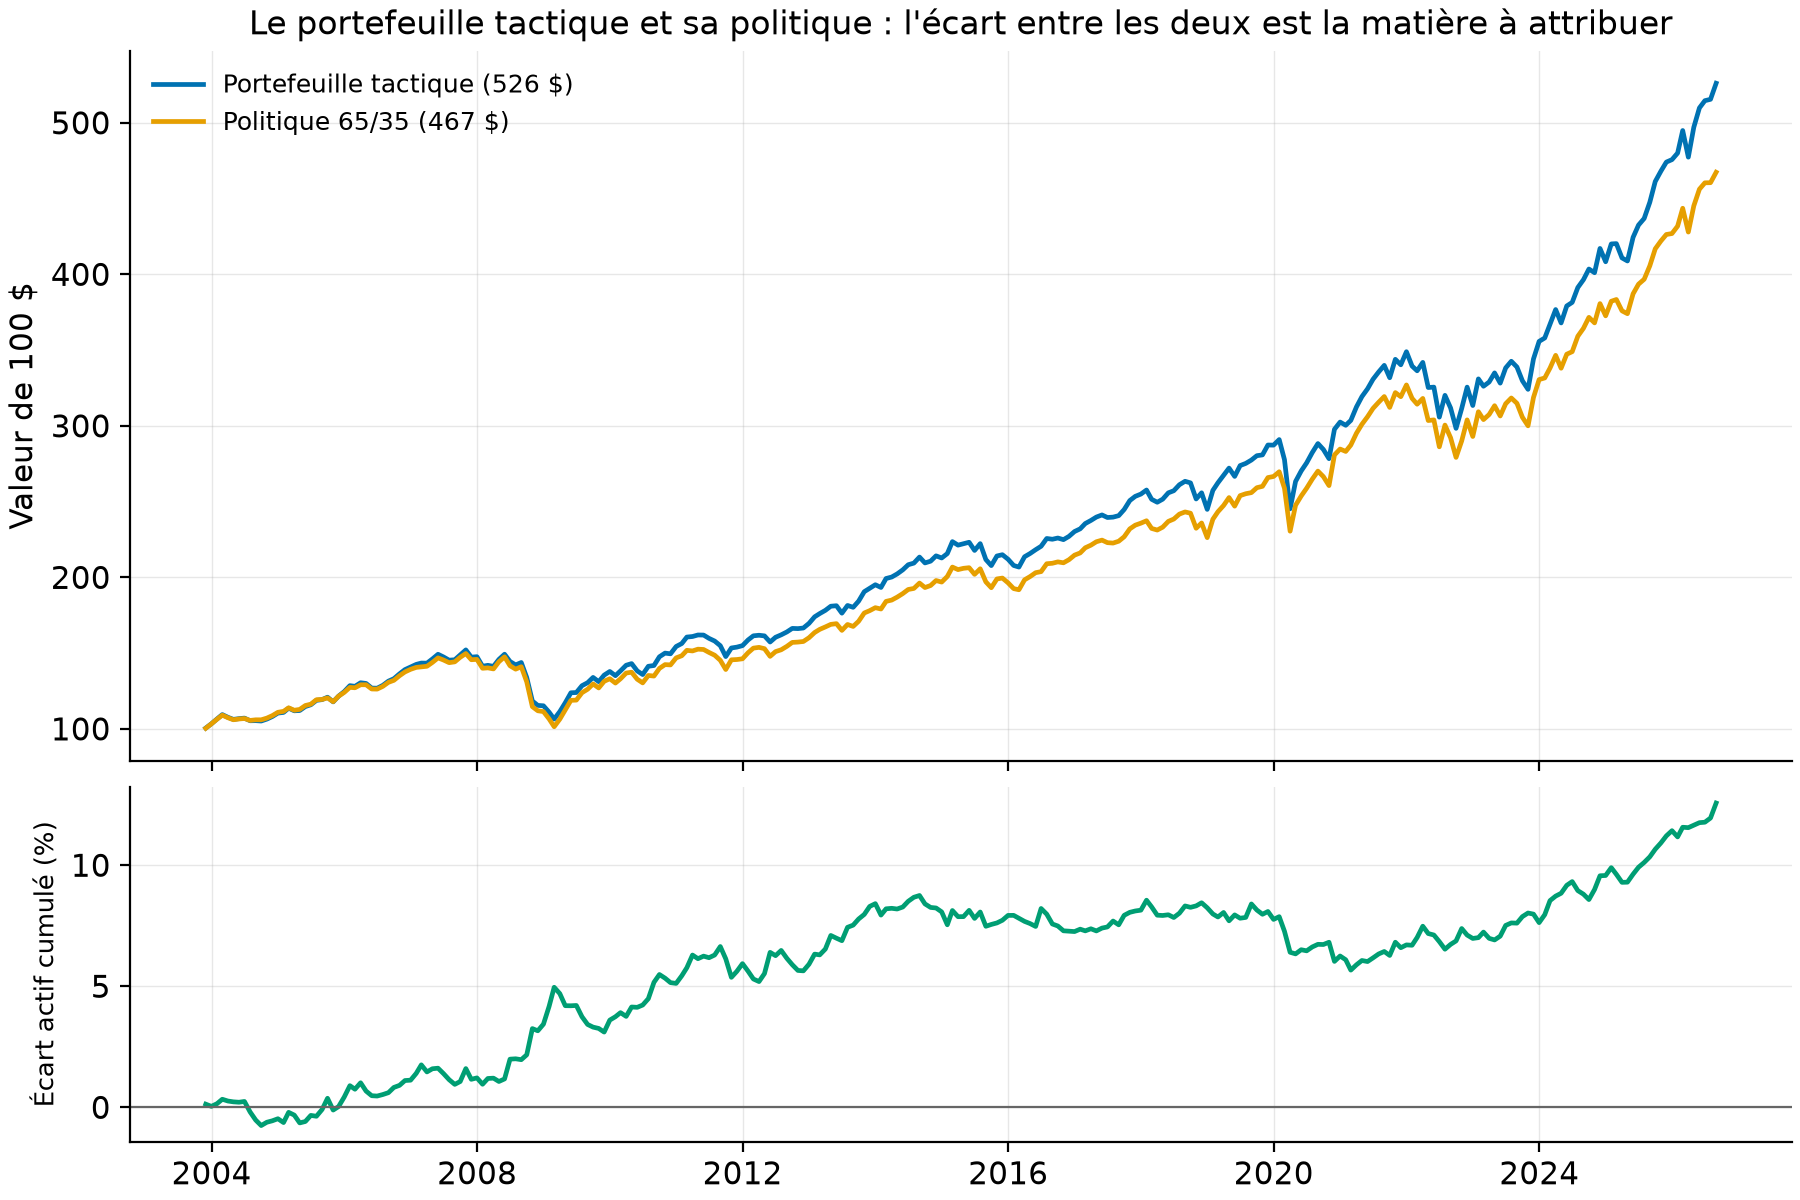
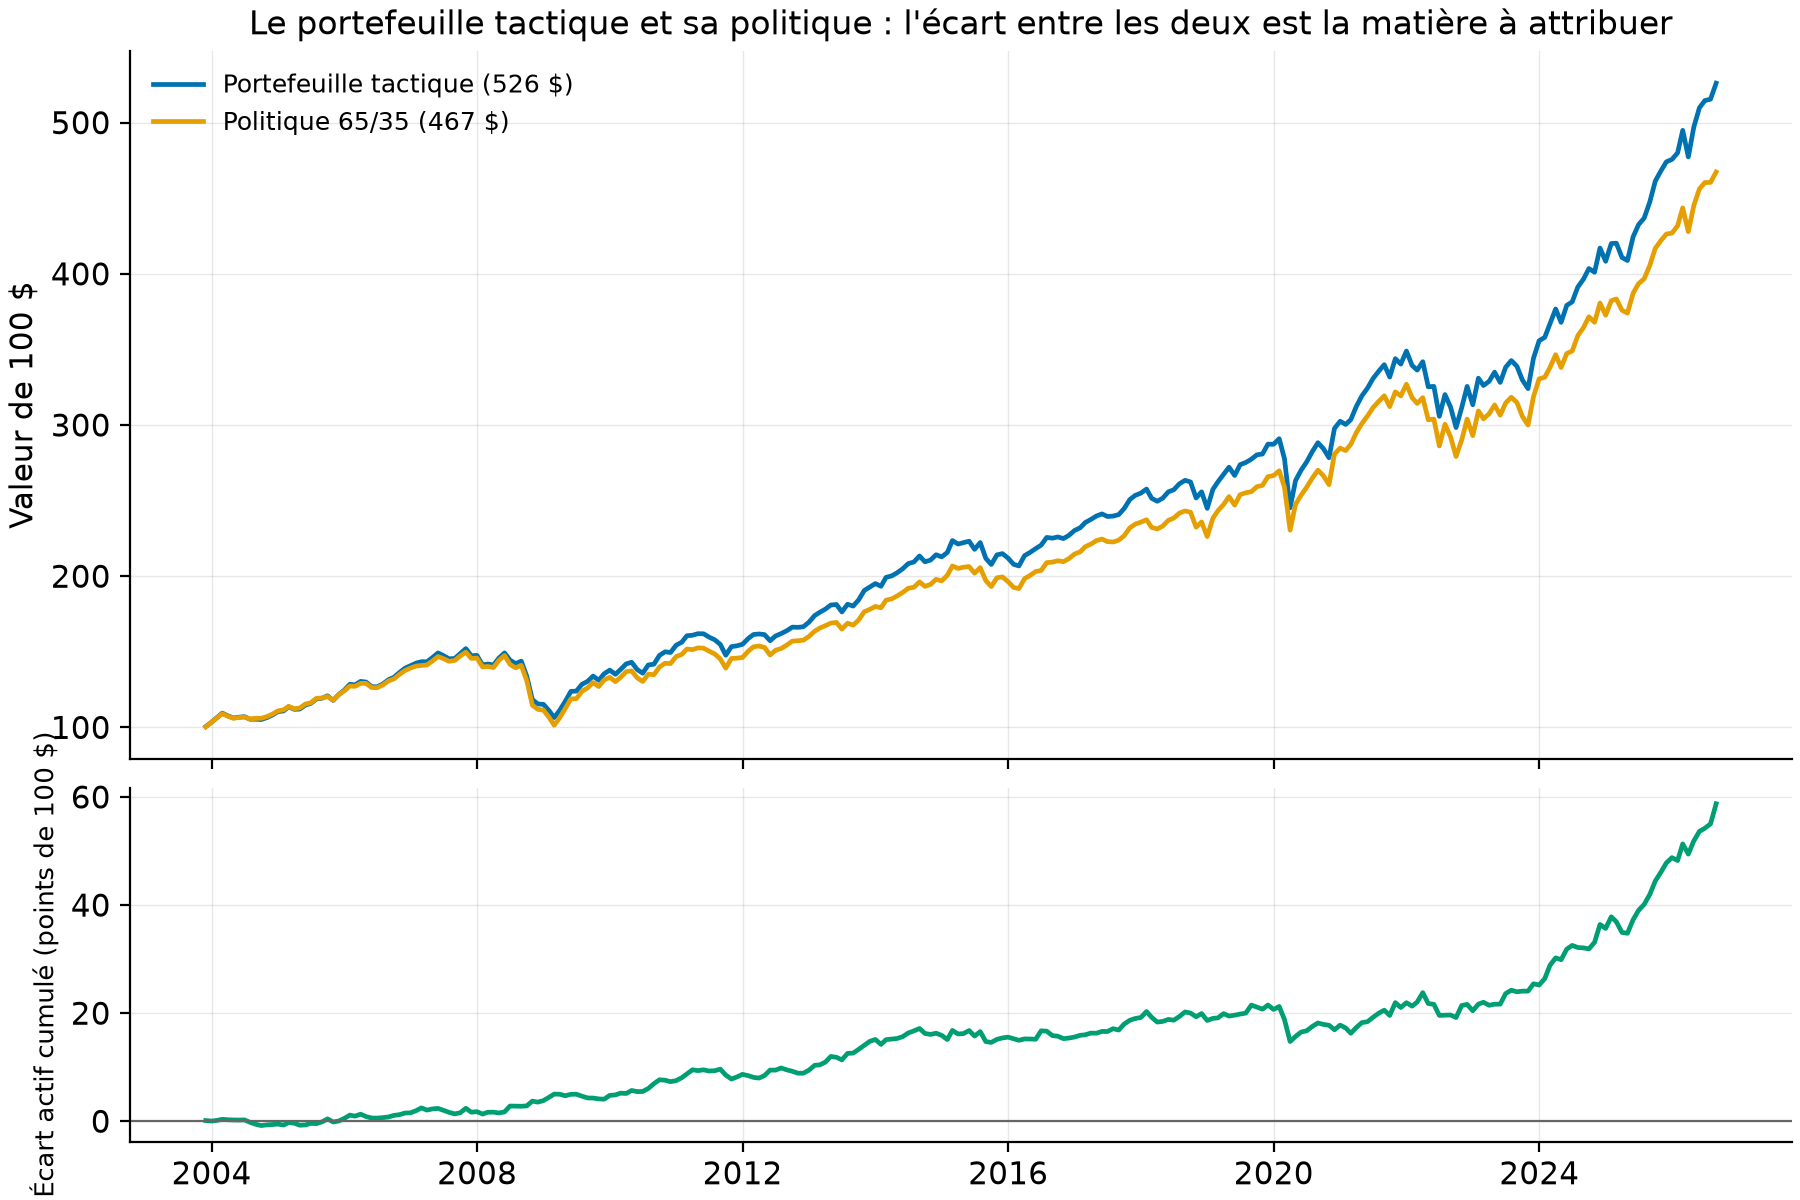
Contre-vérification : Menchero réconcilie au cas limite, TWR retrouvé du moteur, figure corrigée
Trois vérificateurs. Réplication indépendante intégrale : les douze
totaux retrouvés aux six décimales, les figures 3 à 8 du papier JPM 2002
de Frongello reproduites au dix-millième par linking.py (la limite
« tables non répliquées » est refermée), l'exemple GIPS vérifié verbatim
sur le PDF. Corrections : la branche dégénérée de Menchero (cumuls égaux
par chemins différents) garde désormais le correctif et réconcilie, là
où la référence R perd la réconciliation (testé) ; le TWR calcule sa
sous-période 1 avec le moteur Dietz (7 000/99 091 = 7,0642 %) et retombe
exactement sur le 15,63 % imprimé ; le panneau bas de la figure d'actif
trace wp - wb (les +58,74 points annoncés) ; le plafond du tilt
intra-classe est déclaré (7,69 pts quand XRE perd, 92 mois sur 274) ;
l'identité GRAP = Frongello est réattribuée à la famille dollar
(Cariño 2002 ; Bacon 2019) ; « Groupe de Recherche » selon Bacon.

diff --git a/tests/test_perf.py b/tests/test_perf.py
@@ -71,9 +71,25 @@ def test_modified_dietz_gips_handbook_example():
 
 
 def test_twr_chain_gips_handbook_example():
-    # les deux sous-périodes revalorisées du même exemple : 7,06 % puis 8,00 %
-    assert twr_chain([0.0706, 0.08]) == pytest.approx(1.0706 * 1.08 - 1.0, abs=1e-15)
-    assert twr_chain([0.0706, 0.08]) * 100 == pytest.approx(15.62, abs=0.01)
+    # la sous-période 1 est un Dietz revalorisé au grand flux : 7 000/99 091 (Handbook p. 104)
+    flows = [(6.0, -2_000.0), (11.0, 20_000.0)]
+    sp1 = modified_dietz(100_000.0, 125_000.0, flows, 11.0)
+    assert sp1 * 100 == pytest.approx(7.0642, abs=0.001)
+    assert twr_chain([sp1, 0.08]) * 100 == pytest.approx(15.63, abs=0.005)
+
+
+def test_menchero_reconciles_when_cumulative_returns_tie_by_different_paths():
+    # Pi(1+rp) = Pi(1+rb) exactement mais par des chemins différents : la référence R met
+    # alpha = 0 et ne réconcilie plus ; notre branche limite garde le correctif
+    from perf.linking import menchero
+
+    mois = pd.period_range("2020-01", periods=2, freq="M")
+    rp = pd.Series([1.0, -0.5], index=mois)                  # (2)(0,5) = 1 : cumul nul
+    rb = pd.Series([0.0, 0.0], index=mois)
+    eff = pd.DataFrame({"allocation": rp - rb, "selection": [0.0, 0.0],
+                        "interaction": [0.0, 0.0]}, index=mois)
+    linked = menchero(eff, rp, rb)
+    assert float(linked.to_numpy().sum()) == pytest.approx(0.0, abs=1e-12)
 
 
 def test_mwr_closed_forms():

diff --git a/src/perf/cli.py b/src/perf/cli.py
@@ -78,11 +78,15 @@ def gips(out: Path = Path("results")) -> None:
     vb, ve = 100_000.0, 135_000.0
     flows = [(6.0, -2_000.0), (11.0, 20_000.0)]
     dietz = modified_dietz(vb, ve, flows, 30.0)
-    twr = twr_chain([0.0706, 0.08])
+    # le TWR revalorise au grand flux (jour 11, valeur 125 000 $ APRÈS l'apport) : la
+    # sous-période 1 est elle-même un Dietz (7 000/99 091, le Handbook l'imprime), la 2 vaut 8 %
+    sp1 = modified_dietz(100_000.0, 125_000.0, flows, 11.0)
+    twr = twr_chain([sp1, 0.08])
     mwr = mwr_irr(vb, ve, flows, 30.0)
     table = pd.DataFrame([
         {"mesure": "Dietz modifié", "valeur_pct": dietz * 100, "handbook": 15.31},
-        {"mesure": "TWR (sous-périodes 7,06 % et 8,00 %)", "valeur_pct": twr * 100, "handbook": 15.63},
+        {"mesure": "sous-période 1 (Dietz au jour 11)", "valeur_pct": sp1 * 100, "handbook": 7.06},
+        {"mesure": "TWR (chaînage des deux sous-périodes)", "valeur_pct": twr * 100, "handbook": 15.63},
         {"mesure": "MWR (taux interne du mois)", "valeur_pct": mwr * 100, "handbook": float("nan")},
     ])
     (out / "tables").mkdir(parents=True, exist_ok=True)

diff --git a/src/perf/linking.py b/src/perf/linking.py
@@ -36,13 +36,18 @@ def menchero(effects: pd.DataFrame, rp: pd.Series, rb: pd.Series) -> pd.DataFram
     """Chaînage optimisé de Menchero (2000) : coefficient commun M plus correctif alpha_t."""
     rpc, rbc = _cum(rp.to_numpy()), _cum(rb.to_numpy())
     t = len(rp)
+    diff = rp - rb
     if rpc == rbc:
+        # limite : M = (1+R)^((T-1)/T) ; le correctif reste NÉCESSAIRE si les chemins
+        # diffèrent (la référence R met alpha = 0 et ne réconcilie plus, défaut corrigé ici)
         m = (1.0 + rbc) ** ((t - 1) / t)
-        alpha = pd.Series(0.0, index=rp.index)
     else:
         m = ((rpc - rbc) / t) / ((1.0 + rpc) ** (1.0 / t) - (1.0 + rbc) ** (1.0 / t))
-        diff = rp - rb
-        alpha = (rpc - rbc - m * diff.sum()) * diff / float((diff**2).sum())
+    ss = float((diff**2).sum())
+    if ss > 0.0:
+        alpha = (rpc - rbc - m * diff.sum()) * diff / ss
+    else:
+        alpha = pd.Series(0.0, index=rp.index)
     return effects.mul(m + alpha, axis=0)
 
 

diff --git a/src/perf/figures.py b/src/perf/figures.py
@@ -40,10 +40,10 @@ def fig_active(monthly: pd.DataFrame, dest: Path) -> None:
     ax.yaxis.set_major_formatter(fr)
     ax.legend(fontsize=9, loc="upper left")
     ax.set_title("Le portefeuille tactique et sa politique : l'écart entre les deux est la matière à attribuer")
-    actif = (wp / wb - 1) * 100
+    actif = wp - wb                          # en points de 100 $ : la cible de l'attribution
     ax2.plot(actif.index, actif, color=OKABE_ITO[2])
     ax2.axhline(0, color="0.4", linewidth=0.8)
-    ax2.set_ylabel("Écart actif cumulé (%)", fontsize=9.5)
+    ax2.set_ylabel("Écart actif cumulé (points de 100 $)", fontsize=9.5)
     ax2.yaxis.set_major_formatter(fr)
     fig.savefig(dest)
     plt.close(fig)

diff --git a/README.md b/README.md
@@ -13,10 +13,12 @@ rendements du GIPS sur l'exemple chiffré officiel du Handbook. *English summary
    entre +41,01 et +41,79 : au plus 0,83 point d'écart entre méthodes, soit 1,4 % du total
    à expliquer. Le choix de la méthode est un choix de présentation, pas de verdict.
    (Mesuré.)
-2. **GRAP et Frongello ont des totaux EXACTEMENT égaux, et c'est un théorème.** En
-   développant la récursion de Frongello, le coefficient total de l'effet du mois t vaut
-   le facteur GRAP (le passé au portefeuille, le futur au benchmark) : les chemins mensuels
-   diffèrent, les totaux coïncident à 1e-12 (testé). (Mesuré et démontré.)
+2. **GRAP et Frongello ont des totaux EXACTEMENT égaux, une identité redémontrée et
+   testée ici.** En développant la récursion de Frongello, le coefficient total de l'effet
+   du mois t vaut le facteur GRAP (le passé au portefeuille, le futur au benchmark) : les
+   chemins mensuels diffèrent, les totaux coïncident à 1e-12 (testé). L'identité est
+   absente des deux papiers originaux mais connue de la littérature de synthèse (la
+   « famille dollar » de Cariño 2002 ; Bacon 2019, rapporté). (Mesuré et démontré.)
 3. **Chaque méthode réconcilie exactement, ou le test échoue.** La somme des effets
    chaînés doit égaler (1+Rp_1)...(1+Rp_T) - (1+Rb_1)...(1+Rb_T) : résidu maximal observé
    4,8e-15. Et les trois rendements réglementaires (TWR, Dietz modifié, MWR) retombent sur
@@ -40,7 +42,9 @@ jamais commités), 274 mois de novembre 2003 à août 2026. La politique : 65 % 
 tactique s'en écarte par une règle déclarée de momentum 12-1 (le rendement cumulé des
 mois t-12 à t-2, calculé au début du mois : rien du mois attribué n'entre dans les
 poids) : +5 points à la classe gagnante (matière à ALLOCATION), +10 points de poids de
-classe au FNB gagnant dans chaque classe (matière à SÉLECTION). Résultat brut : 7,54 %
+classe au FNB gagnant dans chaque classe (matière à SÉLECTION), le transfert plafonné au
+poids du FNB perdant pour ne jamais créer de poids négatif (7,69 points quand XRE est le
+perdant, le cas dans 92 mois sur 274, mesuré). Résultat brut : 7,54 %
 par an contre 6,99 % pour la politique, +0,56 point par an AVANT tout coût de
 transaction (déclaré ; la règle tourne chaque mois, les coûts mangeraient une partie).
 
@@ -78,9 +82,14 @@ recoupées contre l'implémentation de référence R-Finance/PortfolioAttributio
 table `residus_reconciliation.csv`) ; le verdict, lui, ne dépend pas de la méthode : la
 sélection intra-classe explique 70 % de la valeur ajoutée quel que soit le chaînage, et
 l'écart maximal entre méthodes (0,83 point, sur l'allocation) vaut 1,4 % du total à
-expliquer. Les colonnes GRAP et Frongello sont identiques ligne à ligne : c'est le
-théorème du dépôt (test `test_frongello_totals_equal_grap_totals_theorem`), une identité
-algébrique que les deux papiers ne signalent pas l'un pour l'autre.
+expliquer. Les colonnes GRAP et Frongello sont identiques ligne à ligne : l'identité de
+la « famille dollar » (Cariño 2002 ; Bacon 2019, rapporté), redémontrée ici par expansion
+de la récursion et testée à 1e-12 (test `test_frongello_totals_equal_grap_totals_theorem`) ;
+les deux papiers originaux ne la signalent pas l'un pour l'autre (vérifié sur les PDF).
+Détail d'implémentation qui compte : dans le cas limite où les cumuls du portefeuille et
+du benchmark coïncident exactement par des chemins différents, l'implémentation R de
+référence perd la réconciliation (alpha forcé à zéro) ; la nôtre garde le correctif et
+réconcilie (testé).
 
 ![Quatre méthodes](results/figures/quatre_methodes.png)
 
@@ -111,14 +120,17 @@ jour 6, apport de 20 000 $ au jour 11, valeur finale 135 000 $, mois de 30 jours
 | Mesure | Notre moteur | Handbook |
 |---|---|---|
 | Dietz modifié | 15,306 % | 15,31 % |
-| TWR (sous-périodes 7,06 % et 8,00 %) | 15,625 % | 15,63 % |
+| Sous-période 1 (Dietz revalorisé au jour 11) | 7,064 % | 7,06 % |
+| TWR (chaînage des deux sous-périodes) | 15,629 % | 15,63 % |
 | MWR (taux interne du mois) | 15,349 % | non imprimé |
 
 **Lecture guidée.** Le Dietz au denominateur : 100 000 - 2 000 x 24/30 + 20 000 x 19/30
-= 111 067 $ ; gain de 17 000 $ ; 15,31 %. Le TWR enchaîne les deux sous-périodes
-revalorisées du Handbook (l'écart au 15,63 imprimé vient de leurs décimales non
-publiées, déclaré). Le MWR tombe entre les deux : l'apport de 20 000 $ est arrivé avant
-la bonne sous-période, le client a fait un peu mieux que le Dietz ne le dit.
+= 111 067 $ ; gain de 17 000 $ ; 15,31 %. Le TWR revalorise au grand flux : la
+sous-période 1 est elle-même un Dietz (7 000/99 091 = 7,0642 %, le Handbook imprime ce
+calcul p. 104), la seconde vaut 8,00 %, et le chaînage retombe exactement sur le 15,63 %
+imprimé : les trois lignes sortent du MÊME moteur, aucun chiffre recopié. Le MWR tombe
+entre les deux : l'apport de 20 000 $ est arrivé avant la bonne sous-période, le client a
+fait un peu mieux que le Dietz ne le dit.
 
 ## Reproduire
 
@@ -139,11 +151,14 @@ uv run perf gips        # l'exemple du Handbook refait par les trois moteurs
 2. **Deux niveaux, six actifs.** L'attribution réelle d'une caisse porte des dizaines de
    classes, des devises et des dérivés ; l'effet devise (Karnosky-Singer) n'est pas
    traité, déclaré comme suite naturelle avec le dépôt 13.
-3. **Les tables du papier de Frongello (JPM 2002) ne sont pas répliquées** : le site qui
-   l'héberge a un certificat expiré ; la contre-vérification passe par l'implémentation
-   R de référence et par les identités exactes. (Déclaré ; le papier GRAP original de
-   1997 est introuvable en libre, statut non trouvé, la formule vient de la référence R
-   et de Bacon.)
+3. **Les tables du papier de Frongello (JPM printemps 2002) ont été répliquées lors de
+   la contre-vérification adversariale** : ses figures 3 à 8 (périodes identiques,
+   uniques, gros rendements, ordre inversé) sont reproduites par `linking.py` au
+   dix-millième imprimé, ordre-dépendance de Frongello et invariance de Cariño et
+   Menchero comprises (rapporté, journal de vérification du dépôt ; le site source a un
+   certificat expiré, la réplication n'est pas dans la CI). Le papier GRAP original de
+   1997 reste introuvable en libre (non trouvé) ; la formule vient de la référence R et
+   de Bacon.
 4. **Le Handbook n'imprime pas le MWR de son propre exemple** : notre 15,35 % est calculé
    par le moteur testé sur formes fermées, pas recopié. (Mesuré.)
 5. **Aucune prétention de conformité GIPS.** GIPS est une marque de CFA Institute ; ce
@@ -160,8 +175,12 @@ uv run perf gips        # l'exemple du Handbook refait par les trois moteurs
   *Journal of Performance Measurement*.
 - Frongello, A. (2002), « Linking single period attribution results », *Journal of
   Performance Measurement* ; comparatif JPM printemps 2002.
-- GRAP (1997), Groupe de Réflexion en Attribution de Performance, Paris (non trouvé en
-  libre ; formule via R-Finance/PortfolioAttribution et Bacon 2008).
+- GRAP (1997), Groupe de Recherche en Attribution de Performance, Paris (expansion selon
+  Bacon 2019 ; « Réflexion » circule aussi ; document original non trouvé en libre ;
+  formule via R-Finance/PortfolioAttribution et Bacon).
+- Cariño, D. (2002), « Refinements in multi-period attribution », *Journal of Performance
+  Measurement* ; Bacon, C. (2019), *Performance Attribution*, CFA Institute Research
+  Foundation : la « famille dollar » et l'égalité des totaux.
 - CFA Institute (2020), *GIPS Standards Handbook for Firms*, exemples p. 103-105.
 - R-Finance/PortfolioAttribution (MIT) : implémentation de référence des chaînages.
 
@@ -176,8 +195,9 @@ observed residual 4.8e-15). Test bench: a declared 12-1 momentum tilt portfolio 
 repo-03 65/35 policy, 274 months (2003-11 to 2026-08), +58.74 pts cumulative active
 return (+0.56 pt/yr, BEFORE costs, declared). Verdict: the four methods agree, at most
 0.83 pt apart (1.4 % of the total); selection explains ~70 % under every linking; and
-GRAP and Frongello produce IDENTICAL totals, which we show is an algebraic theorem
-(expanding Frongello's recursion yields the GRAP factors) and test to 1e-12. GIPS-style
+GRAP and Frongello produce IDENTICAL totals, an identity of the "dollar family"
+(Cariño 2002; Bacon 2019, reported) absent from the two original papers, re-derived here
+(expanding Frongello's recursion yields the GRAP factors) and tested to 1e-12. GIPS-style
 returns (TWR, Modified Dietz, MWR) are validated to the cent on the official GIPS
 Standards Handbook 2020 worked example (pp. 103-105): 15.31 % and 15.63 %. No GIPS
 compliance claimed; 12 closed-form tests, no network.
